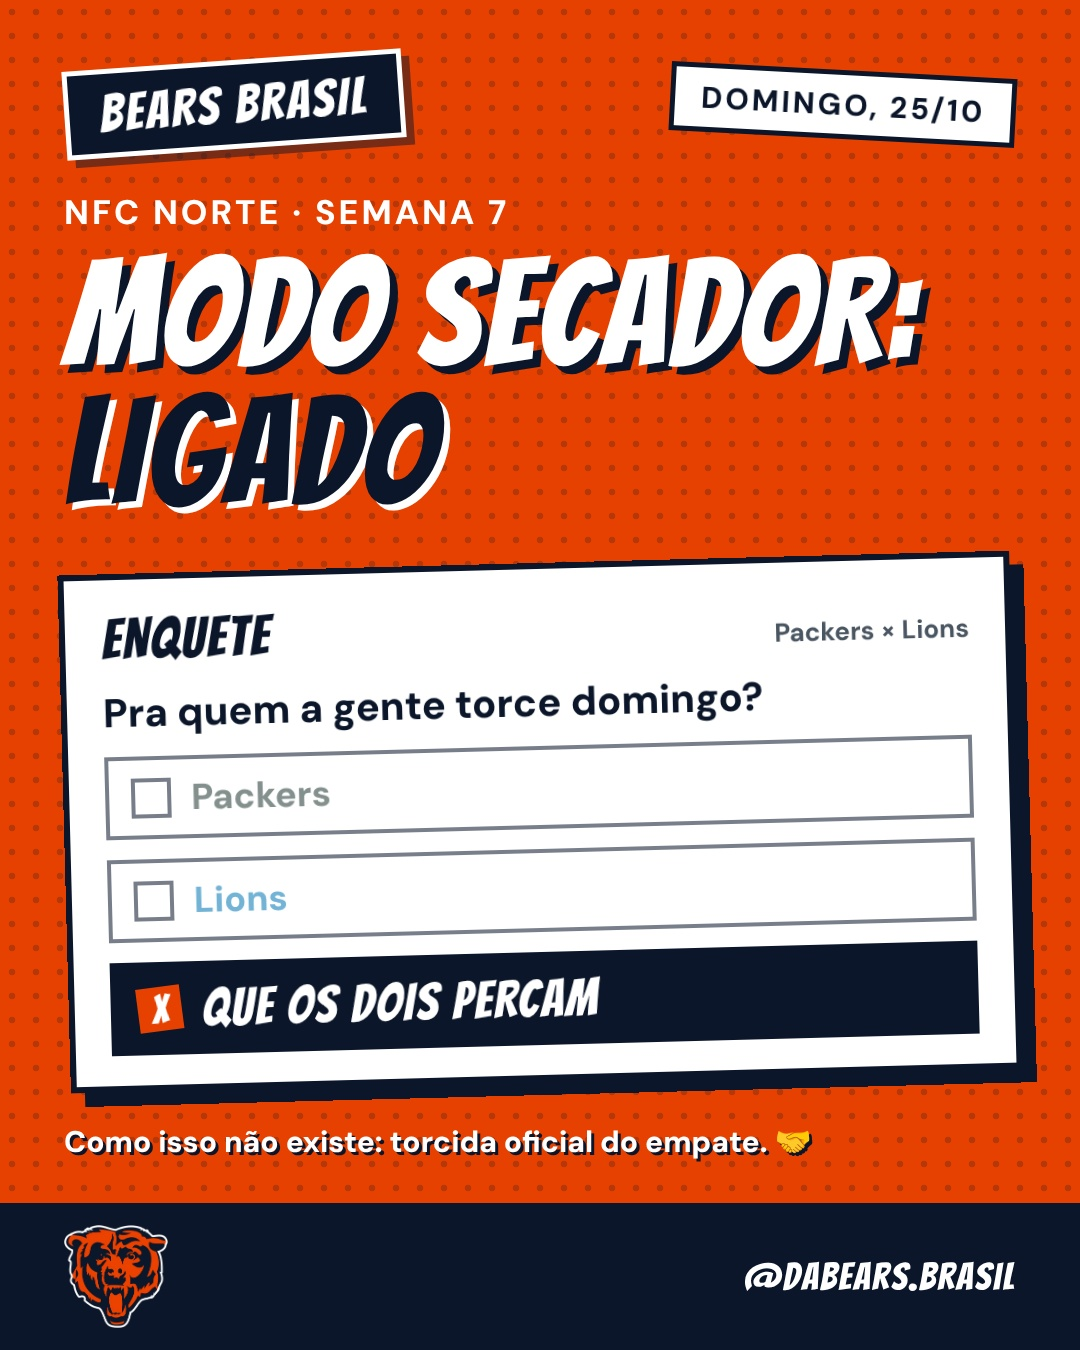
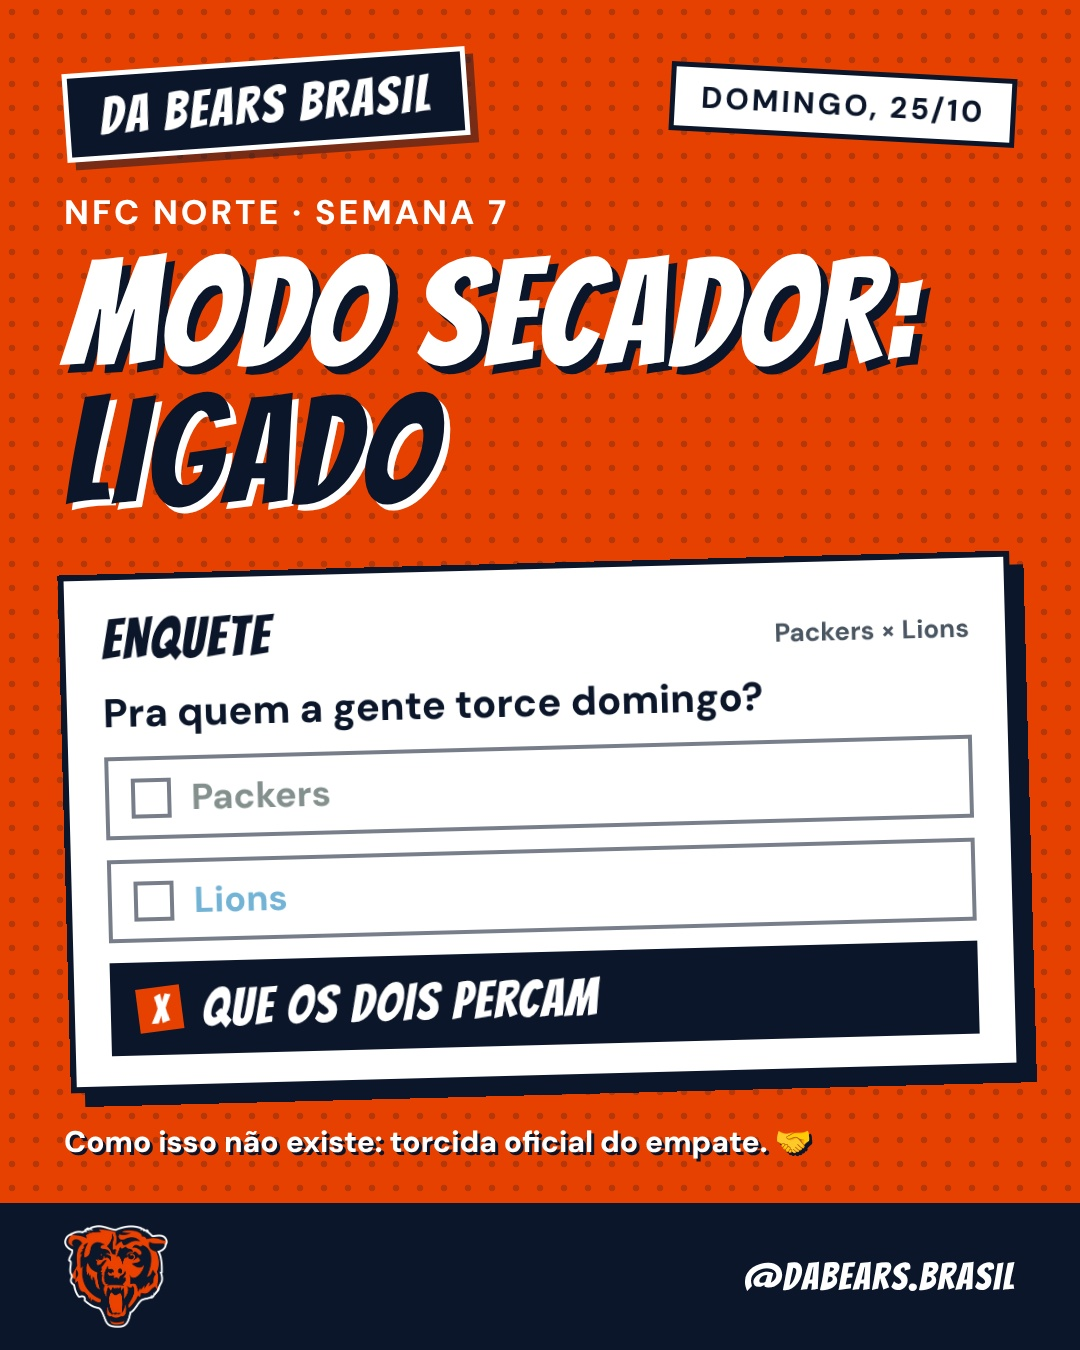
Cabeçalho Da Bears Brasil nos moldes C e no post do Cairo
Claude-Session: https://claude.ai/code/session_01GHZaKM1uNPAL4kKDNWYecL

Changed region(s): [[0.0611, 0.0311, 0.4583, 0.1244]]

diff --git a/templates/C-secador.dc.html b/templates/C-secador.dc.html
@@ -28,7 +28,7 @@ body{margin:0}
 <div style="position: relative; width: 1080px; height: 1350px; box-sizing: border-box; padding: 60px 64px 0; display: flex; flex-direction: column; justify-content: space-between; background-color: #E64100; background-image: radial-gradient(rgba(11,22,42,0.22) 3px, transparent 3.6px); background-size: 24px 24px; color: #0B162A; font-family: 'DM Sans', sans-serif; overflow: hidden">
 
 <div style="display: flex; justify-content: space-between; align-items: center">
-<div class="cr-wob" style="background: #0B162A; color: #FFFFFF; padding: 12px 30px; font-family: 'Bangers', cursive; font-size: 52px; letter-spacing: 3px; border: 5px solid #FFFFFF; box-shadow: 8px 8px 0 rgba(11,22,42,0.5)">BEARS BRASIL</div>
+<div class="cr-wob" style="background: #0B162A; color: #FFFFFF; padding: 12px 30px; font-family: 'Bangers', cursive; font-size: 52px; letter-spacing: 3px; border: 5px solid #FFFFFF; box-shadow: 8px 8px 0 rgba(11,22,42,0.5)">DA BEARS BRASIL</div>
 <div class="cr-wobr" style="background: #FFFFFF; color: #0B162A; padding: 10px 26px; font-weight: 800; font-size: 30px; letter-spacing: 3px; border: 5px solid #0B162A">DOMINGO, 25/10</div>
 </div>
 

diff --git a/templates/C-zoeira-noticia.dc.html b/templates/C-zoeira-noticia.dc.html
@@ -28,7 +28,7 @@ body{margin:0}
 <div style="position: relative; width: 1080px; height: 1350px; box-sizing: border-box; padding: 60px 64px 0; display: flex; flex-direction: column; justify-content: space-between; background-color: #E64100; background-image: radial-gradient(rgba(11,22,42,0.22) 3px, transparent 3.6px); background-size: 24px 24px; color: #0B162A; font-family: 'DM Sans', sans-serif; overflow: hidden">
 
 <div style="display: flex; justify-content: space-between; align-items: center">
-<div class="c-wob" style="background: #0B162A; color: #FFFFFF; padding: 12px 30px; font-family: 'Bangers', cursive; font-size: 52px; letter-spacing: 3px; border: 5px solid #FFFFFF; box-shadow: 8px 8px 0 rgba(11,22,42,0.5)">BEARS BRASIL</div>
+<div class="c-wob" style="background: #0B162A; color: #FFFFFF; padding: 12px 30px; font-family: 'Bangers', cursive; font-size: 52px; letter-spacing: 3px; border: 5px solid #FFFFFF; box-shadow: 8px 8px 0 rgba(11,22,42,0.5)">DA BEARS BRASIL</div>
 <div class="c-wobr" style="background: #FFFFFF; color: #0B162A; padding: 10px 26px; font-weight: 800; font-size: 30px; letter-spacing: 3px; border: 5px solid #0B162A">RECIBO DO DIA</div>
 </div>
 

diff --git a/posts/2026-10-23/2030-cairo-santos-redencao/src/1.dc.html b/posts/2026-10-23/2030-cairo-santos-redencao/src/1.dc.html
@@ -17,7 +17,7 @@ body{margin:0}
 <div style="position: relative; width: 1080px; height: 1350px; box-sizing: border-box; padding: 64px 72px; display: flex; flex-direction: column; justify-content: space-between; background: #F4EEE1; color: #0B162A; font-family: 'Source Sans 3', sans-serif; overflow: hidden">
 <div style="display: flex; flex-direction: column; gap: 12px">
 <div style="border-top: 6px solid #0B162A; border-bottom: 2px solid #0B162A; padding: 14px 0; display: flex; justify-content: space-between; align-items: center">
-<span style="font-family: 'Fraunces', serif; font-weight: 800; font-size: 50px; letter-spacing: 1px">Bears Brasil</span>
+<span style="font-family: 'Fraunces', serif; font-weight: 800; font-size: 50px; letter-spacing: 1px">Da Bears Brasil</span>
 <span style="font-weight: 600; font-size: 24px; letter-spacing: 2px">SEXTA, 23 DE OUTUBRO</span>
 </div>
 <div style="display: flex; justify-content: space-between; font-weight: 700; font-size: 24px; letter-spacing: 2px; color: #E64100"><span>BRASILEIRO NA NFL</span><span>SEMANA 7</span></div>
